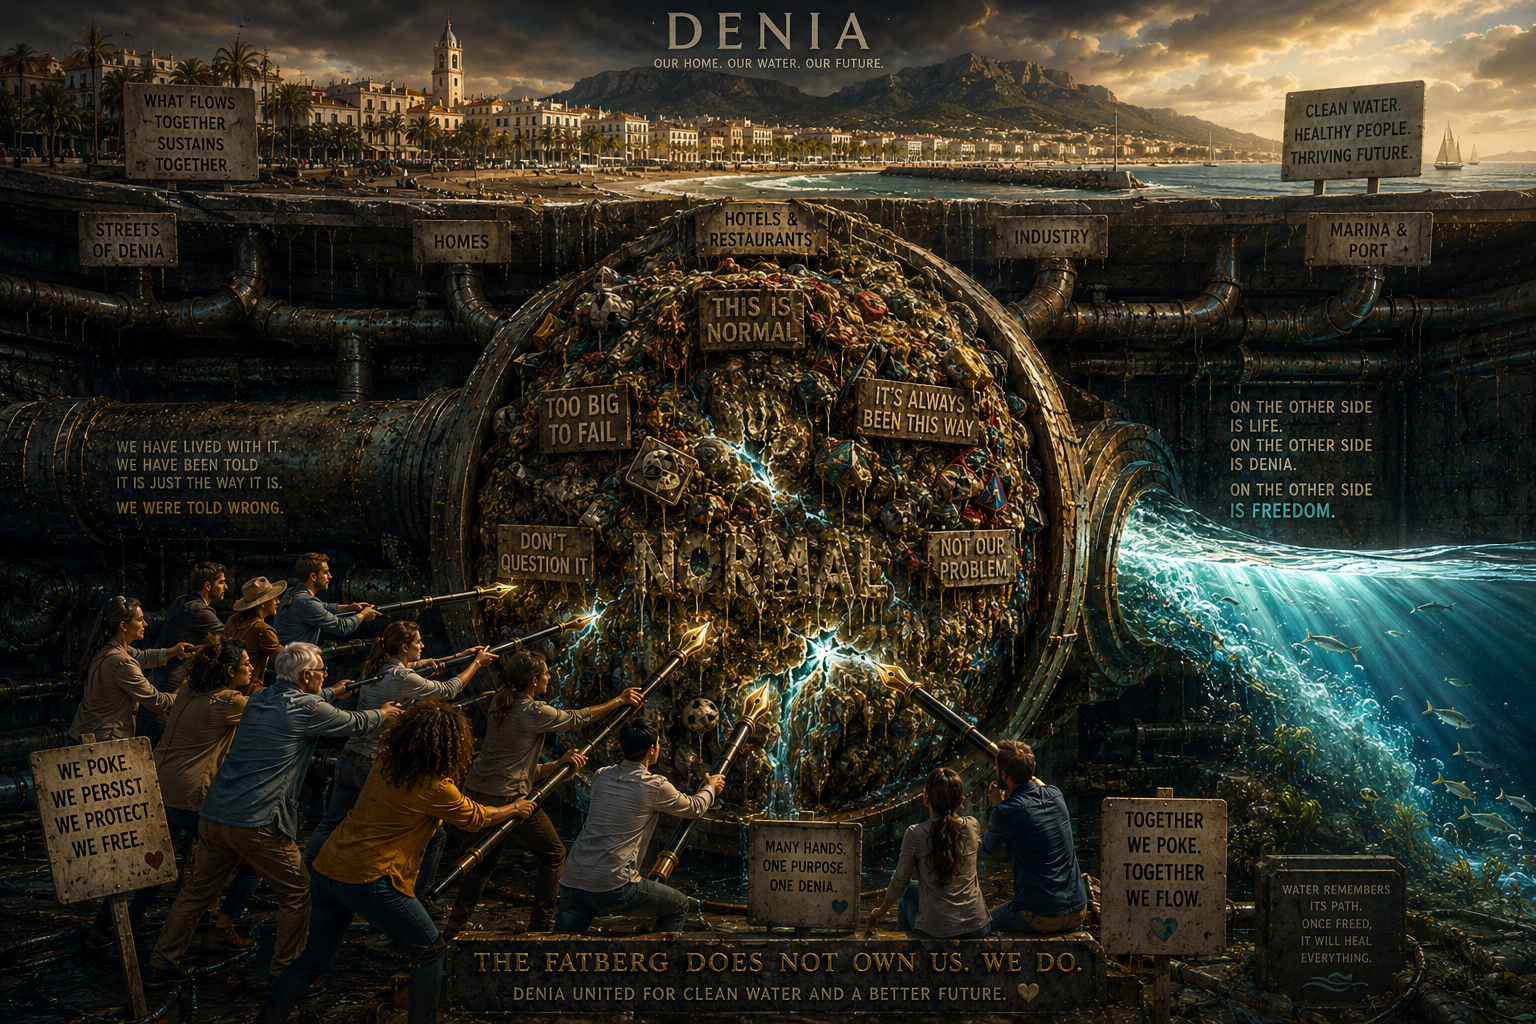
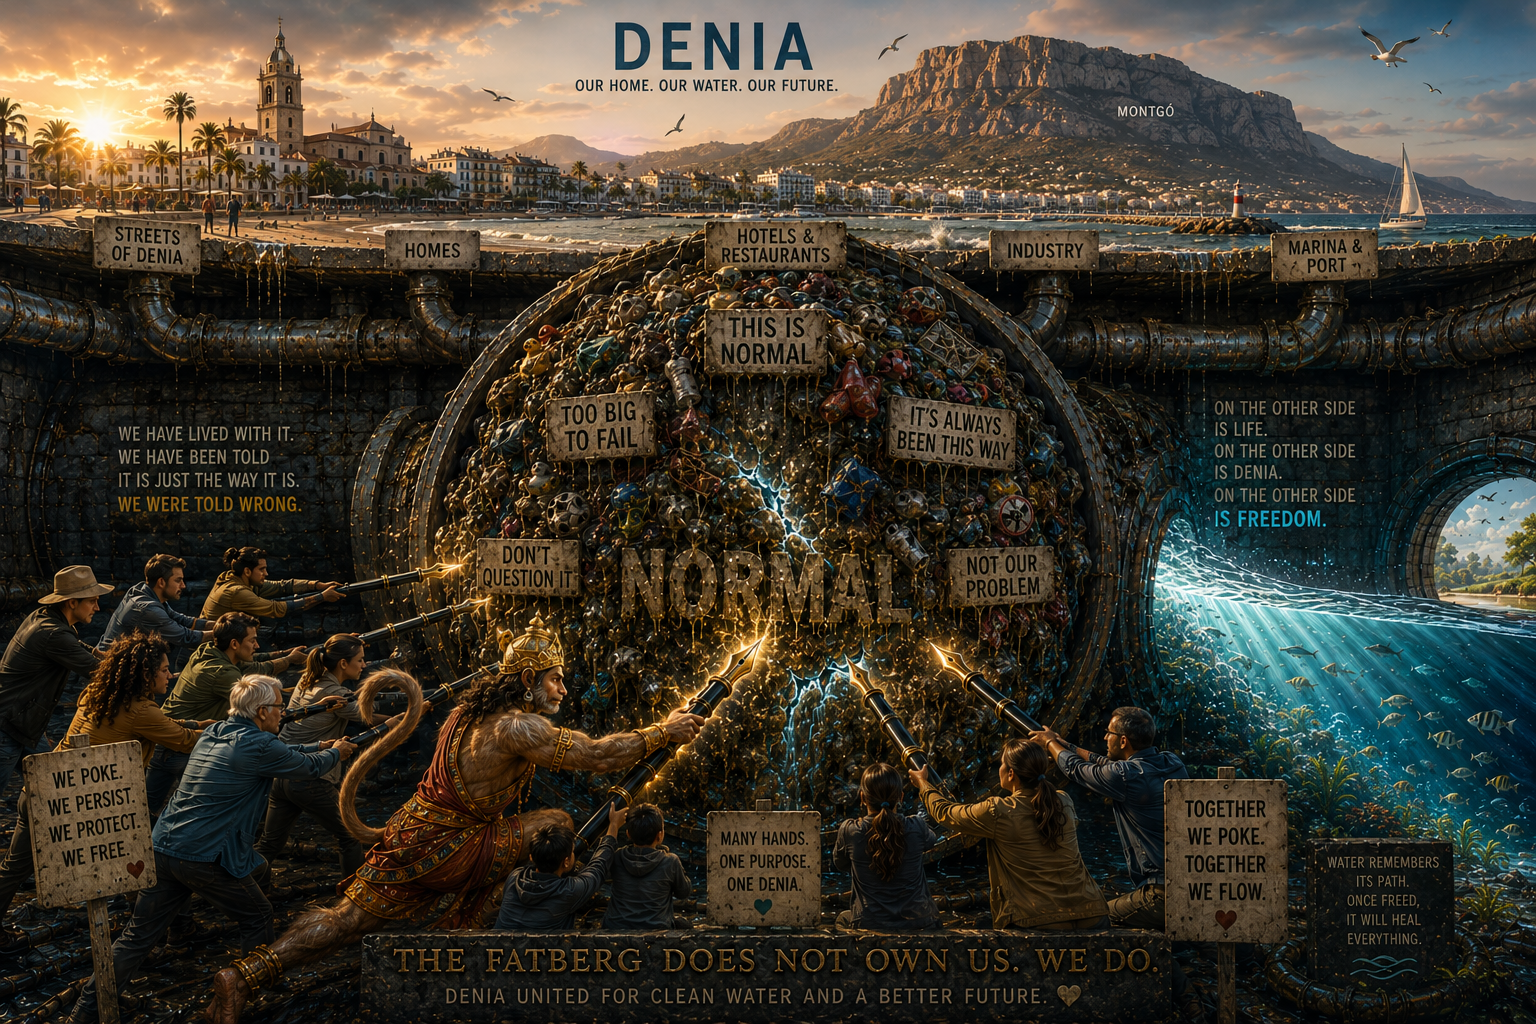
February 2025 editorial

diff --git a/docs/timeline/2025/february.md b/docs/timeline/2025/february.md
@@ -372,15 +372,17 @@ Anyway. With the best. Tell your team to come into the office pls.
 - Paul changes the subject a lot and often talks about his urinary symptom of "diabetes" that matches exactly my urinary symptom from poisoning and kidney damage - or, I'm wondering now if it's a symptom of constant stress.
 - An aside: in June 2026 time-of-writing, I wonder if I go into a massive fear state while I'm in deep sleep because I'm making a callous on my palm, and I do not know how or when I'm doing it.
 - I believe Paul is keeping an eye on me for the Adams family and will be paid for his services in cocaine and other drugs.
-- I believe among the stack of tablets he takes every day is something they've given him, all dressed up as regular meds, either cocaine or something similar to keep him going.
+- I believe among the stack of tablets he takes every day is something they've given him, all dressed up as regular meds - just like my mother's sedating drugs she receives by Royal Mail - either cocaine or something similar to keep him going.
 - He doesn't shut up much though... and he repeatedly shows me his medication packets too - *this is for diabetes, this for ... etc* as if he's proud of them, or perhaps he's trying to convince me he's not perma-high like he seems to be.
 
 #### Paul admits something about the air-conditioning units that he'd previously vociferously denied possible
 
 - Paul had previously told me there was no chance of being drugged with the air-conditioning system.
-- I had told me I wasn't able to get up to the roof to check the other side of the system or the storage room, it was always locked.
+- I had told him I wasn't able to get up to the roof to check the other side of the system or the storage room, it was always locked.
 - He then changed his story, after receiving a text, and quietly said actually, no, they could add something to the air-conditioning system on the roof which could gas the inhabitants of an apartment.
-- My view is this was total nonsense and the gassing was going on with some venting system from next door, like I had seen with the [unusually built tunneling into number 18 from my bedroom's air-conditioning vents](../2021/december.md#something-not-right-with-the-air-conditioning-unit).
+- Was Adams dropping the Lopez-Cano's in it?
+- My view is that the gassing was going on with some venting system from next door, like I had seen with the [unusually built tunneling into number 18 from my bedroom's air-conditioning vents](../2021/december.md#something-not-right-with-the-air-conditioning-unit) but I guess it's possible they fix a controlled output mechanism to the outside unit.
+- They always need a few conspirators living in the same apartment building, don't they, someone to manage the spy-cam network and press the gassing button when they can see the victim has safely gone to bed.
 - Who told him to tell me this? 
 - Lucy maybe?
 